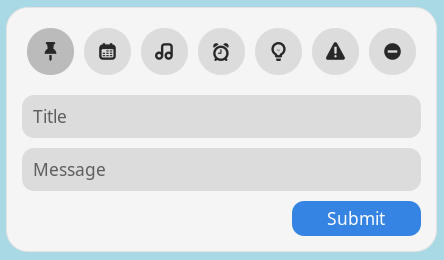
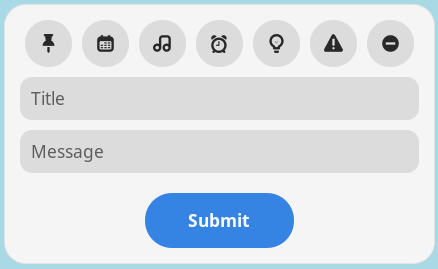
fix small submit button

diff --git a/pinit@cankurttekin/stylesheet.css b/pinit@cankurttekin/stylesheet.css
@@ -42,10 +42,13 @@
 
 .submit-button {
     background-color: rgb(53, 132, 228); /* Blue color for submit button */
-    border-radius: 12px;
-    padding: 5px 10px;
+    border-radius: 300px;
+    padding: 15px 10px;
     color: white;
-    margin-left: 270px;
+    margin-top: 10px;
+    font-weight: bold;
+    margin-left: 125px;
+    margin-right: 125px;
 }
 
 .submit-button:hover {
@@ -75,15 +78,11 @@
 }
 
 
-
-.dialog-buttons-box {
-    margin-top: 15px;
-}
-
-
 .pinit-extension.icon-button {
-  margin: 5px;
-  margin-bottom: 20px;
+  margin-left: 5px;
+  margin-right: 5px;
+  margin-bottom: 10px;
+  margin-top: 0px;
 }
 
 .icon-button.selected-icon {
